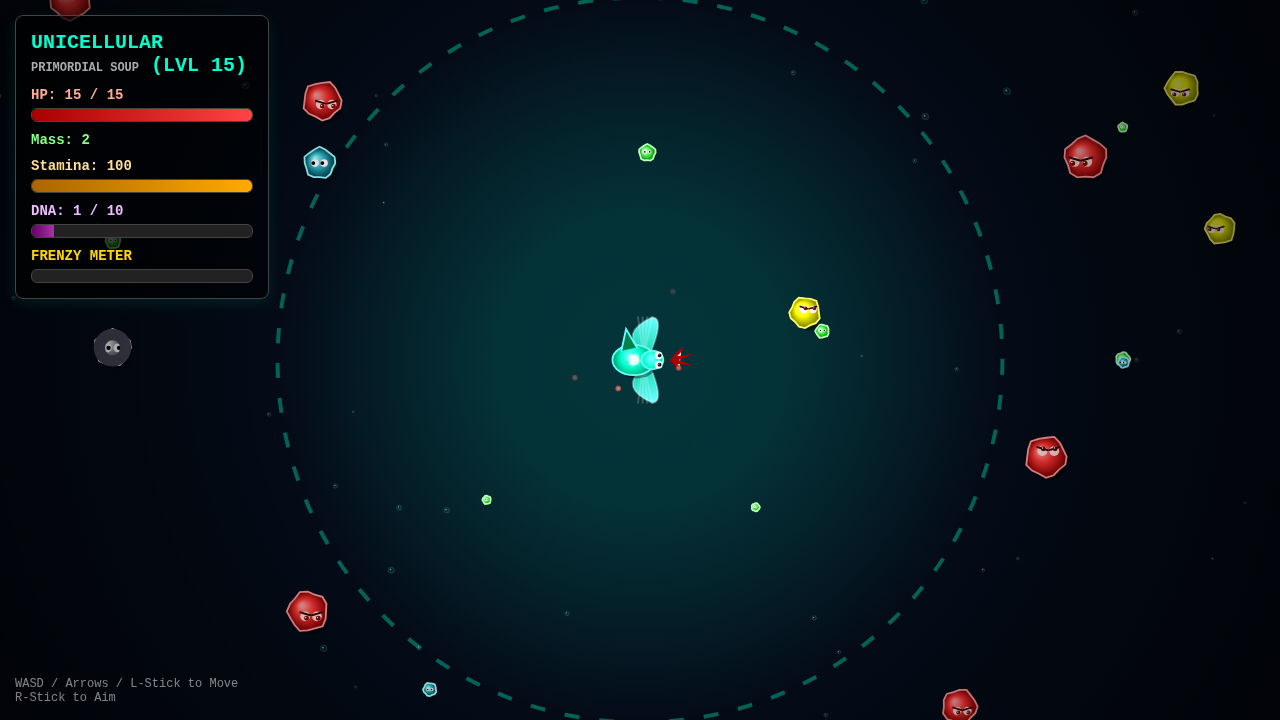
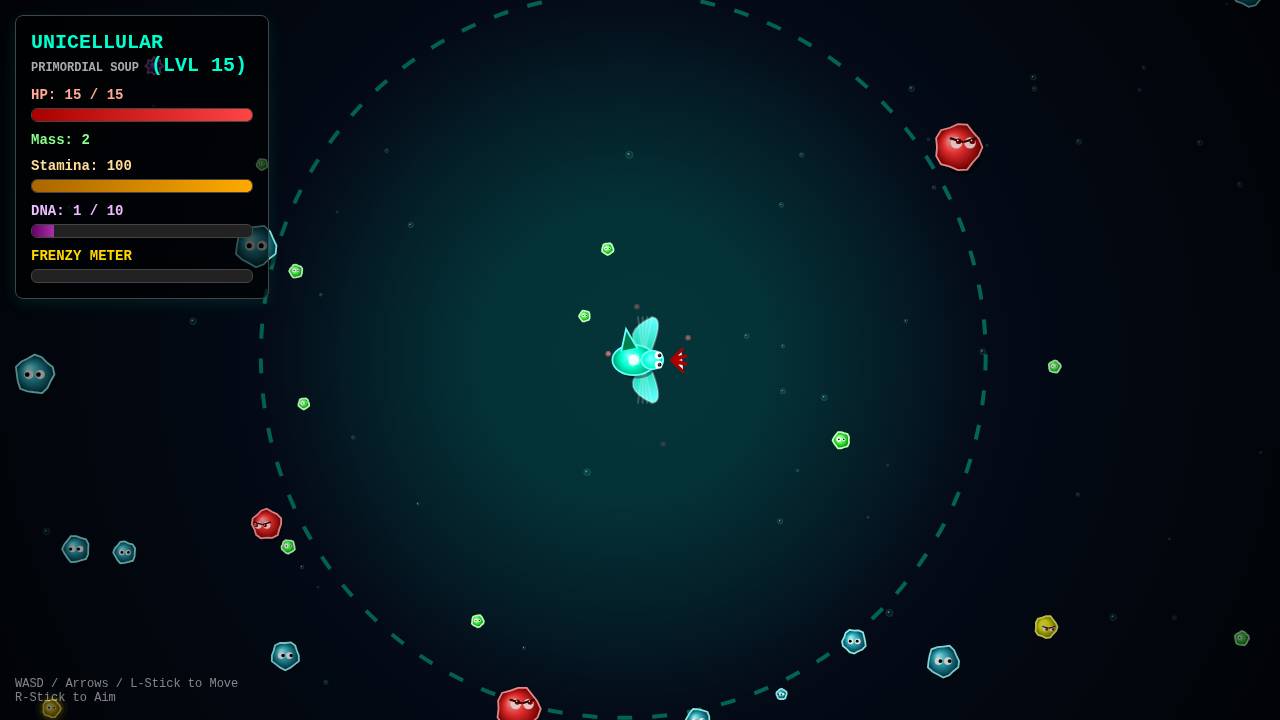
Rebalance game scaling and spawn limits
- Reduced DNA exponential scaling from 1.6x to 1.3x to make high-level leveling faster.
- Increased max entity capacity and limits.
- Doubled spawn rate for faster repopulation.

diff --git a/game.html b/game.html
@@ -629,8 +629,8 @@
         }
 
         function spawnEntity(isInitial = false) {
-            let maxEntities = 80 + Math.floor(player.mass * 0.15);
-            if (entities.length > Math.min(250, maxEntities)) return;
+            let maxEntities = 150 + Math.floor(player.mass * 0.25);
+            if (entities.length > Math.min(400, maxEntities)) return;
             
             let rand = Math.random();
             let type = "drifter"; // default
@@ -795,7 +795,7 @@
             function finishEvolve() {
                 player.level++;
                 player.dna = 0;
-                player.nextDna = Math.floor(player.nextDna * 1.6);
+                player.nextDna = Math.floor(player.nextDna * 1.3);
                 player.hp = player.maxHp; 
                 
                 let stageNames = [
@@ -1750,7 +1750,7 @@
             }
 
             if (player.dna >= player.nextDna) evolve();
-            if (Math.random() < 0.2) spawnEntity();
+            if (Math.random() < 0.4) spawnEntity();
 
             document.getElementById('hp').innerText = Math.floor(player.hp);
             document.getElementById('maxHp').innerText = player.maxHp;
